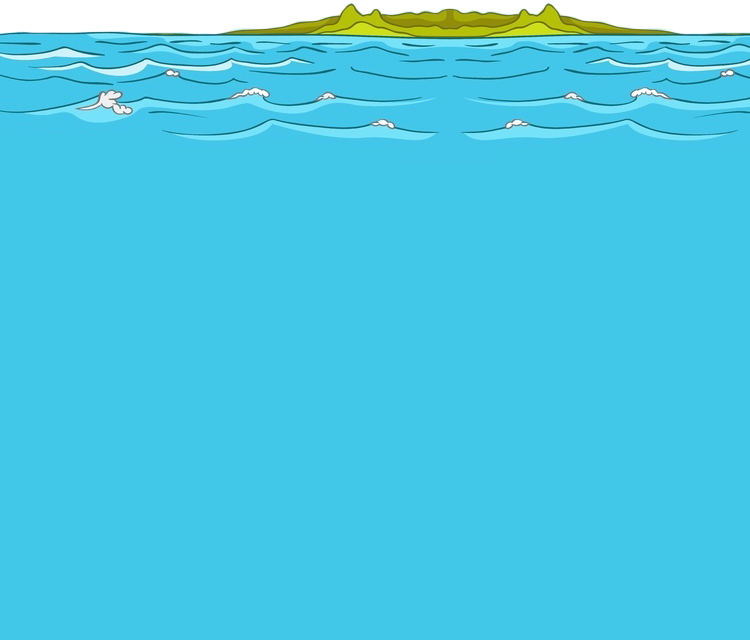
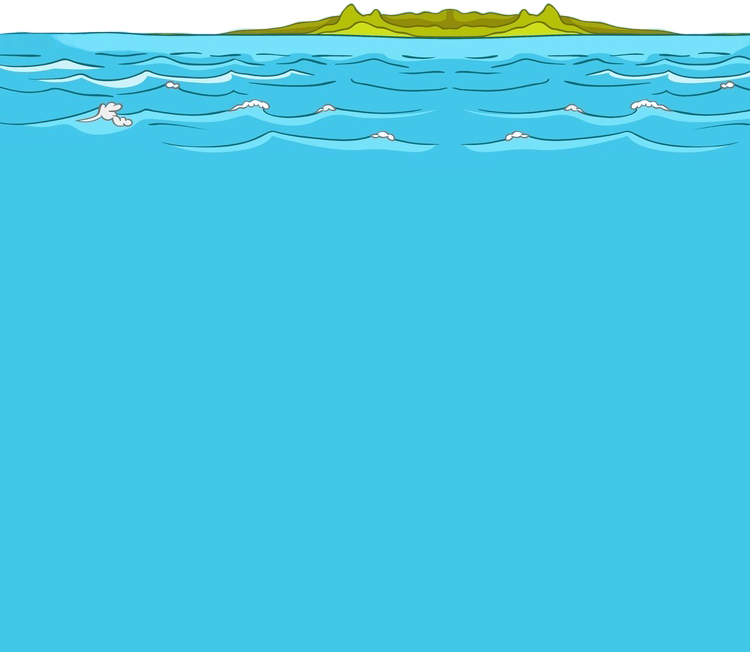
new css test

Changed region(s): [[0.0, 0.0312, 1.0, 0.25]]

diff --git a/www/css/index.css b/www/css/index.css
@@ -25,94 +25,16 @@ body {
     -webkit-text-size-adjust: none;             /* prevent webkit from resizing text to fit */
     -webkit-user-select: none;                  /* prevent copy paste, to allow, change 'none' to 'text' */
     background-color:#E4E4E4;
-    /*background-image:linear-gradient(top, #A7A7A7 0%, #E4E4E4 51%);
-    background-image:-webkit-linear-gradient(top, #A7A7A7 0%, #E4E4E4 51%);
-    background-image:-ms-linear-gradient(top, #A7A7A7 0%, #E4E4E4 51%);
-    background-image:-webkit-gradient(
-        linear,
-        left top,
-        left bottom,
-        color-stop(0, #A7A7A7),
-        color-stop(0.51, #E4E4E4)
-    );*/
     background-attachment:fixed;
     font-family:'HelveticaNeue-Light', 'HelveticaNeue', Helvetica, Arial, sans-serif;
     font-size:12px;
     height:100%;
     margin:0px;
     padding:0px;
-    /*text-transform:uppercase;*/
     width:100%;
 }
 
-/* Portrait layout (default) */
-/*.app {
-    background:url(../img/logo.png) no-repeat center top; /* 170px x 200px *
-    position:absolute;             /* position in the center of the screen *
-    left:50%;
-    top:50%;
-    height:50px;                   /* text area height *
-    width:225px;                   /* text area width *
-    text-align:center;
-    padding:180px 0px 0px 0px;     /* image height is 200px (bottom 20px are overlapped with text) *
-    margin:-115px 0px 0px -112px;  /* offset vertical: half of image height and text area height *
-                                   /* offset horizontal: half of text area width *
-}*/
 
-/* Landscape layout (with min-width) */
-@media screen and (min-aspect-ratio: 1/1) and (min-width:400px) {
-    /*.app {
-        background-position:left center;
-        padding:75px 0px 75px 170px;  /* padding-top + padding-bottom + text area = image height *
-        margin:-90px 0px 0px -198px;  /* offset vertical: half of image height *
-                                      /* offset horizontal: half of image width and text area width *
-    }*/
-}
-
-/*h1 {
-    font-size:24px;
-    font-weight:normal;
-    margin:0px;
-    overflow:visible;
-    padding:0px;
-    text-align:center;
-}
-
-.event {
-    border-radius:4px;
-    -webkit-border-radius:4px;
-    color:#FFFFFF;
-    font-size:12px;
-    margin:0px 30px;
-    padding:2px 0px;
-}
-
-.event.listening {
-    background-color:#333333;
-    display:block;
-}
-
-.event.received {
-    background-color:#4B946A;
-    display:none;
-}
-
-@keyframes fade {
-    from { opacity: 1.0; }
-    50% { opacity: 0.4; }
-    to { opacity: 1.0; }
-}
- 
-@-webkit-keyframes fade {
-    from { opacity: 1.0; }
-    50% { opacity: 0.4; }
-    to { opacity: 1.0; }
-}
- 
-.blink {
-    animation:fade 3000ms infinite;
-    -webkit-animation:fade 3000ms infinite;
-}*/
 
 .wrapper {
 	position: absolute;
@@ -128,19 +50,21 @@ body {
 	bottom: 0;
 	left: 0;
 	background: url('../img/bg-top.png');
+	background-color: #72defe;
 	background-repeat: no-repeat;
 	background-size: 100% auto;
 }
 .foreground {
 	position: absolute;
-	top: 0;
+	top: 64%;
 	right: 0;
 	bottom: 0;
 	left: 0;
 	background: url('../img/bg-bottom.png');
+	background-color: #41c8e8;
 	background-repeat: no-repeat;
 	background-size: 100% auto;
-	background-position: left bottom;
+	background-position: left top;
 	z-index: 100;
 }
 .sprite {
